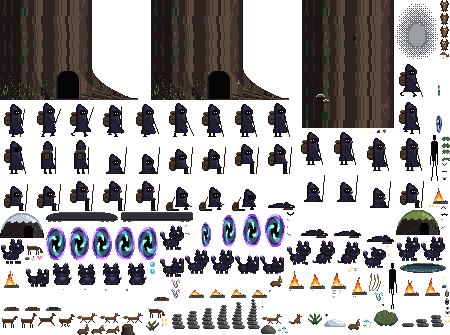
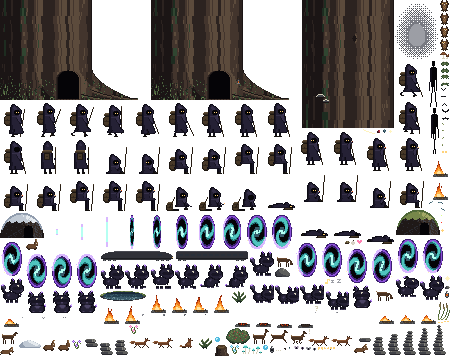
fix: the portal tears open, turns and closes as a portal should
On his road the portal took the whole first phase of the visit, twenty-odd
seconds, to step through five still frames from a stub on the ground; now it
tears open in the air in about a second (a point of light, a slit its height,
the oval widening, turning all the while), turns a few seconds, and only then
does the creature step out; at the end it closes the same way. The swirl is two
arms of blue light turning smoothly over twelve frames, with sparks climbing its
rim and a bright heart. Out of the portal the creature stands a moment, then
trots to the fire; going back it faces the portal (it walked there backwards)
and steps in. From the deep it opens, waits, closes just as quickly, and while
it is away a faint crack of light stays in the air where it went.

diff --git a/tools/art/sprites/portal.ts b/tools/art/sprites/portal.ts
@@ -1,53 +1,82 @@
 // The portal the creature comes through to visit him at night (web/stage.ts) and goes through from the deep
-// (web/creature/hollow.ts): an upright oval, a rim of violet light, arms of blue light swirling over dark water in
-// towards a dark heart. It opens from a thin slit of light, turns while it is open, and closes the same way. Made by
-// rule, not by hand: each pixel by its distance from the middle and its angle. Legend in ../legend.ts.
+// (web/creature/hollow.ts): an upright oval, a rim of violet light, two arms of blue light turning in over dark water
+// towards a bright heart, sparks climbing its rim. It tears open from a point of light: a slit the height of it, then
+// the oval widening, turning all the while; it closes the same way. Made by rule, not by hand: each pixel by its
+// distance from the middle and its angle. Legend in ../legend.ts.
 import type { Sheet } from '../legend.ts';
 
-const W = 22;
-const H = 36;
+const W = 24;
+const H = 38;
+/** The oval's half width and half height when open, and its middle (its foot on the bottom row). */
+const RX = 10;
+const RY = 17.5;
+const CX = (W - 1) / 2;
+const CY = H - 1 - RY;
 
-/** One frame: the oval at `size` (0..1 of its full width and height), the swirl turned by `turn` (radians). */
-function portal(size: number, turn: number): string[] {
-  const rx = Math.max(1.1, 10 * size * (size < 0.3 ? 0.35 : 1));
-  const ry = 17 * Math.min(1, 0.25 + size);
-  const cx = (W - 1) / 2;
-  const cy = H - 1 - ry;
-  const rows: string[] = [];
-  for (let y = 0; y < H; y++) {
-    let row = '';
+/** One frame: the oval `rx` wide by `ry` high, the swirl turned by `turn` (radians), sparks `spark` (0..1) up its rim. */
+function portal(rx: number, ry: number, turn: number, spark: number | null): string[] {
+  const grid: string[][] = Array.from({ length: H }, () => Array.from({ length: W }, () => '.'));
+  for (let y = 0; y < H; y++)
     for (let x = 0; x < W; x++) {
-      const dx = (x - cx) / rx;
-      const dy = (y - cy) / ry;
+      const dx = (x - CX) / rx;
+      const dy = (y - CY) / ry;
       const r = Math.sqrt(dx * dx + dy * dy);
-      if (r > 1) {
-        row += '.';
+      if (r > 1) continue;
+      // A slit: all light.
+      if (rx < 1.6) {
+        grid[y][x] = Math.abs(dy) < 0.55 ? '$' : 'γ';
         continue;
       }
-      const a = Math.atan2(dy, dx);
-      const swirl = Math.sin(3 * a + 7 * r - turn);
-      let ch: string;
-      if (r > 0.86) ch = swirl > 0 ? 'γ' : 'β';
-      else if (r > 0.72) ch = swirl > 0.2 ? 'β' : 'α';
-      else if (r < 0.2) ch = 'h';
-      else if (swirl > 0.55) ch = r < 0.5 ? '$' : '@';
-      else if (swirl > 0) ch = '#';
-      else ch = r < 0.45 ? 'h' : 'P';
-      row += ch;
+      const a = Math.atan2(dy * ry, dx * rx);
+      // The rim: violet, a brighter band running round it.
+      if (r > 0.84) {
+        grid[y][x] = Math.sin(a - turn * 0.5) > 0.5 ? 'γ' : r > 0.94 ? 'α' : 'β';
+        continue;
+      }
+      if (r < 0.12) {
+        grid[y][x] = '$';
+        continue;
+      }
+      // Two arms winding in: bright only at the heart, dimmer out towards the rim; dark water between them.
+      const arm = Math.sin(2 * a + 7 * r - turn);
+      if (arm > 0.6) grid[y][x] = r < 0.3 ? '$' : '@';
+      else if (arm > 0.1) grid[y][x] = '#';
+      else grid[y][x] = r < 0.3 ? 'P' : r > 0.72 ? 'α' : 'h';
     }
-    rows.push(row);
-  }
-  return rows;
+  // Sparks climbing the rim on both sides, each fading out near the top.
+  if (spark !== null)
+    for (let k = 0; k < 4; k++) {
+      const p = (spark + k / 4) % 1;
+      if (p > 0.8) continue;
+      const y = Math.round(H - 2 - p * (H - 4));
+      const dy = (y - CY) / RY;
+      const side = k % 2 === 0 ? 1 : -1;
+      const x = Math.round(CX + side * (RX * Math.sqrt(Math.max(0, 1 - dy * dy)) + 1));
+      if (x >= 0 && x < W && grid[y][x] === '.') grid[y][x] = p < 0.5 ? '!' : 'γ';
+    }
+  return grid.map((row) => row.join(''));
 }
 
-const TURNS = 6;
+/** Frames while open: the swirl turns half a circle (its two arms bring it round), the sparks climb once. */
+const TURNS = 12;
+/** Opening: a point of light, a slit growing to its height, then the oval widening. */
+const OPENING: readonly (readonly [number, number])[] = [
+  [1, 3],
+  [1, 9],
+  [1, 17.5],
+  [2.5, 17.5],
+  [4.5, 17.5],
+  [6.5, 17.5],
+  [8.5, 17.5],
+  [9.5, 17.5],
+];
 
 export const SHEET: Sheet = {
   name: 'portal',
   w: W,
   h: H,
   tags: [
-    { name: 'open', ms: 120, frames: [0.12, 0.3, 0.5, 0.72, 0.9].map((s, i) => portal(s, i * 0.9)) },
-    { name: 'loop', ms: 140, frames: Array.from({ length: TURNS }, (_, i) => portal(1, (i / TURNS) * Math.PI * 2)) },
+    { name: 'open', ms: 90, frames: OPENING.map(([rx, ry], i) => portal(rx, ry, i * 0.5, null)) },
+    { name: 'loop', ms: 90, frames: Array.from({ length: TURNS }, (_, i) => portal(RX, RY, (i / TURNS) * Math.PI * 2, i / TURNS)) },
   ],
 };

diff --git a/web/stage.ts b/web/stage.ts
@@ -15,7 +15,7 @@ import { loopFrame, walkFrame } from '../src/walker.ts';
 import { unit } from '../src/noise.ts';
 import { biomeAt, blended, groundHeight, isRealm, landmarksBetween, stretchAt } from '../src/world.ts';
 import { awakeAt } from '../src/creature/traveller.ts';
-import { camping, sitsUp, visitAt } from '../src/creature/visit.ts';
+import { camping, crossing, portalOpen, sitsUp, visitAt } from '../src/creature/visit.ts';
 import type { Visit } from '../src/creature/visit.ts';
 import { drawNeighbour } from './neighbour.ts';
 import type { Neighbour } from './neighbour.ts';
@@ -341,27 +341,31 @@ export class Stage {
       const seat = l.fire.at + 1.3;
       const gx = colOf(gate);
       const gy = groundRow(gate);
-      // The portal: opening from a slit, turning while it is open, closing again.
+      // The portal: tearing open from a point of light, turning while it is open, closing the same way.
       const sheet = atlas.sheets.portal;
-      const opening = visit.phase === 'opening' ? visit.k : visit.phase === 'closing' ? 1 - visit.k : 1;
-      const frame = opening < 1 ? sheet.open[Math.min(sheet.open.length - 1, Math.floor(opening * sheet.open.length))] : sheet.loop[Math.floor(time * 7) % sheet.loop.length];
-      // While it sits with him the portal stays, dimmed, waiting.
-      const dim = visit.phase === 'with' ? 0.55 : 1;
-      r.ground.add(Math.round(gx - frame[2] / 2), Math.round(gy - frame[3] + 2), frame, rowA, rowB, b.k, false, dim);
-      if (light.count < 6) {
-        const o = light.count * 4;
-        light.lights[o] = gx;
-        light.lights[o + 1] = gy - 16;
-        light.lights[o + 2] = 30 * opening;
-        light.lights[o + 3] = 0.35 * opening * dim;
-        light.count++;
+      const open = portalOpen(visit);
+      if (open > 0) {
+        const frame = open < 1 ? sheet.open[Math.min(sheet.open.length - 1, Math.floor(open * sheet.open.length))] : sheet.loop[Math.floor(time * 11) % sheet.loop.length];
+        // While it sits with him the portal stays, a little dimmer, waiting.
+        const dim = visit.phase === 'with' ? 0.8 : 1;
+        r.ground.add(Math.round(gx - frame[2] / 2), Math.round(gy - frame[3] + 2), frame, rowA, rowB, b.k, false, dim);
+        if (light.count < 6) {
+          const o = light.count * 4;
+          light.lights[o] = gx;
+          light.lights[o + 1] = gy - 16;
+          light.lights[o + 2] = 30 * open;
+          light.lights[o + 3] = 0.35 * open * dim;
+          light.count++;
+        }
       }
-      // The creature: through the portal and over to the fire, there a while, back and through again.
+      // The creature: out of the portal and over to the fire, there a while, back and through again.
       const dozing = this.neighbour !== null && !awakeAt(this.neighbour.nightOwl, this.creatureClock());
       if (visit.phase === 'coming' || visit.phase === 'going') {
-        const k = visit.phase === 'coming' ? visit.k : 1 - visit.k;
-        const fade = Math.min(1, k * 5);
-        drawNeighbour(r, atlas, colOf(gate + (seat - gate) * k), groundRow(seat), 'walk', true, this.neighbour, rows, 'open', time, fade, (gate - seat) * k * PX_PER_M);
+        const c = crossing(visit);
+        // Coming it faces the fire; going, the portal.
+        const flip = visit.phase === 'coming';
+        const x = gate + (seat - gate) * c.at;
+        drawNeighbour(r, atlas, colOf(x), groundRow(x), c.walking ? 'walk' : 'stand', flip, this.neighbour, rows, 'open', time, c.shown, (gate - x) * PX_PER_M);
       } else if (visit.phase === 'with') {
         const awake = sitsUp(visit);
         drawNeighbour(r, atlas, colOf(seat), groundRow(seat), 'sit', true, this.neighbour, rows, dozing && !awake ? 'shut' : awake ? 'happy' : 'open', time);

diff --git a/src/creature/visit.ts b/src/creature/visit.ts
@@ -6,8 +6,12 @@
 import { unit } from '../noise.ts';
 import { hourOfDay } from '../sky.ts';
 
-/** The hours of his clock the visit spans, and how long (hours) the portal takes to open and it to walk over. */
-export const VISIT = { from: 23.5, to: 3.5, open: 0.15, walk: 0.3 } as const;
+/**
+ * The hours of his clock the visit spans; how long (hours) the portal stands open before it steps out (and after it
+ * steps back in), and how long it takes to come over to the fire; how long the portal takes to tear open or close.
+ * On a road with an hour-long day, an hour of his clock is 150 real seconds: it opens in about a second.
+ */
+export const VISIT = { from: 23.5, to: 3.5, open: 0.04, walk: 0.06, tear: 0.007 } as const;
 
 /** How long the visit lasts, hours of his clock. */
 const SPAN = (VISIT.to + 24 - VISIT.from) % 24;
@@ -45,6 +49,31 @@ export function visitAt(clock: number, seed: number): Visit | null {
     at -= len;
   }
   return null;
+}
+
+/** How open the portal is (0 shut … 1 open): tearing open at the start of the visit, closing at its end. */
+export function portalOpen(v: Visit): number {
+  if (v.phase === 'opening') return Math.min(1, (v.k * VISIT.open) / VISIT.tear);
+  if (v.phase === 'closing') return Math.min(1, ((1 - v.k) * VISIT.open) / VISIT.tear);
+  return 1;
+}
+
+/**
+ * Where it is between the portal (0) and its seat by the fire (1), and whether it is walking or showing (0 … 1)
+ * as it comes out or goes in: out of the portal it stands a moment, then trots over; back, it trots to the portal
+ * and steps in.
+ */
+export function crossing(v: Visit): { readonly at: number; readonly walking: boolean; readonly shown: number } {
+  const OUT = 0.18;
+  if (v.phase === 'coming') {
+    if (v.k < OUT) return { at: 0, walking: false, shown: Math.min(1, v.k / (OUT * 0.6)) };
+    return { at: (v.k - OUT) / (1 - OUT), walking: true, shown: 1 };
+  }
+  if (v.phase === 'going') {
+    if (v.k > 1 - OUT) return { at: 0, walking: false, shown: Math.min(1, (1 - v.k) / (OUT * 0.6)) };
+    return { at: 1 - v.k / (1 - OUT), walking: true, shown: 1 };
+  }
+  return { at: v.phase === 'with' ? 1 : 0, walking: false, shown: v.phase === 'with' ? 1 : 0 };
 }
 
 /** Whether he sits up with it now: a night he wakes, in the middle of its time with him. */

diff --git a/src/creature/brain.ts b/src/creature/brain.ts
@@ -232,6 +232,12 @@ function* comeOut(c: Ctx): Script {
   yield* walkTo(c, c.body.x, Math.min(1, home.z + 0.1));
 }
 
+/** Opens its portal (from 0 to 1) or closes it (1 to 0), quickly: a tear in the air. */
+function* tear(c: Ctx, from: number, to: number): Script {
+  for (let t = 0; t < 0.8; t += yield) c.opening(from + (to - from) * (t / 0.8));
+  c.opening(to);
+}
+
 /** Moves its doorway fade to `to` (1 gone into the dark, 0 outside) over BRAIN.doorwaySec. */
 function* through(c: Ctx, to: number): Script {
   const b = c.body;
@@ -615,29 +621,29 @@ const ACT: Readonly<Record<ActivityName, Activity>> = {
       yield* hush(c, 3);
       yield* walkTo(c, PORTAL.x - 0.03, PORTAL.z);
       c.body.facing = 1;
-      for (let t = 0; t < 1.6; t += yield) c.opening(t / 1.6);
-      c.opening(1);
+      // It tears open in the air before it, turns a moment; it steps in and fades into the light.
+      yield* tear(c, 0, 1);
+      yield* wait(0.6);
       yield* walkTo(c, PORTAL.x, PORTAL.z);
-      // Through.
       for (let t = 0; t < 0.8; t += yield) c.body.doorway = t / 0.8;
       c.body.visible = false;
       c.body.doorway = 0;
       c.through(true);
-      for (let t = 0; t < 1.6; t += yield) c.opening(1 - t / 1.6);
-      c.opening(0);
+      yield* wait(0.7);
+      yield* tear(c, 1, 0);
       // Gone, until its visit is over.
       let t = 0;
       while (c.visit() !== null && c.visit()?.phase !== 'closing' && t < 1800) t += yield;
-      for (let k = 0; k < 1.6; k += yield) c.opening(k / 1.6);
-      c.opening(1);
+      yield* tear(c, 0, 1);
+      yield* wait(0.4);
       c.body.visible = true;
       c.body.doorway = 1;
       for (let k = 0; k < 0.8; k += yield) c.body.doorway = 1 - k / 0.8;
       c.body.doorway = 0;
       c.through(false);
       yield* walkTo(c, PORTAL.x - 0.08, Math.min(1, PORTAL.z + 0.1));
-      for (let k = 0; k < 1.6; k += yield) c.opening(1 - k / 1.6);
-      c.opening(0);
+      yield* wait(0.5);
+      yield* tear(c, 1, 0);
       c.say('portalBack');
       c.feelings.joy = clamp01(c.feelings.joy + 0.25);
       c.life.needs.love = clamp01(c.life.needs.love + 0.1);

diff --git a/web/creature/hollow.ts b/web/creature/hollow.ts
@@ -290,17 +290,17 @@ export class Hollow {
       }
     }
 
-    // Its portal, when it goes to his camp at night and when it comes back: opening from a slit, turning, closing; while
-    // it is gone, a faint shimmer where it went.
+    // Its portal, when it goes to his camp at night and when it comes back: tearing open from a point of light,
+    // turning, closing; while it is gone, a faint crack of light in the air where it went.
     const open = game.portal;
     if (open > 0 || game.gone) {
       const px = Math.round(geo.px(PORTAL.x)) + 6;
       const foot = Math.round(geo.footY(PORTAL.x, PORTAL.z));
       const sheet = sheets.portal;
-      const frame = open >= 1 ? sheet.loop[Math.floor(time * 7) % sheet.loop.length] : open > 0 ? sheet.open[Math.min(sheet.open.length - 1, Math.floor(open * sheet.open.length))] : sheet.open[0];
-      const alpha = open > 0 ? 1 : 0.35 + 0.15 * Math.sin(time * 1.3);
+      const frame = open >= 1 ? sheet.loop[Math.floor(time * 11) % sheet.loop.length] : open > 0 ? sheet.open[Math.min(sheet.open.length - 1, Math.floor(open * sheet.open.length))] : sheet.open[2];
+      const alpha = open > 0 ? 1 : 0.22 + 0.12 * Math.sin(time * 1.3);
       later(PORTAL.z + 0.001, () => put(ground, px - (frame[2] >> 1), foot - frame[3] + 2, frame, false, alpha));
-      addLight(px, foot - 16, 12 + 22 * open, 0.1 + 0.25 * open);
+      addLight(px, foot - 16, 12 + 22 * open, 0.06 + 0.29 * open);
     }
 
     // The creature.

diff --git a/test/creature-road.test.ts b/test/creature-road.test.ts
@@ -17,7 +17,7 @@ test('every night it comes to his camp: through the portal, over to the fire, wi
   assert.equal(visitAt(day + 20, seed), null, 'not in the evening');
   assert.equal(visitAt(day + 12, seed), null, 'nor by day');
   const phases: string[] = [];
-  for (let h = VISIT.from; h < VISIT.from + 4.2; h += 0.05) {
+  for (let h = VISIT.from; h < VISIT.from + 4.2; h += 0.005) {
     const v = visitAt(day + h, seed);
     const p = v === null ? 'none' : v.phase;
     if (phases.at(-1) !== p) phases.push(p);
@@ -92,7 +92,7 @@ test('from the deep it opens its portal, goes through, keeps the visit when it c
     gone = game.gone;
   }
   assert.ok(opened === 1 && gone && !game.body.visible, 'the portal opened and it went through');
-  game.hisNight = visitAt(VISIT.from + 3.9, seed);
+  game.hisNight = visitAt(VISIT.from + 3.98, seed);
   for (let i = 0; i < 400; i++) game.update(0.1);
   assert.ok(!game.gone && game.body.visible && game.portal === 0, 'back, and the portal shut');
   assert.ok(life.diary.at(-1)?.text.includes('fire'), 'and it keeps the visit');
